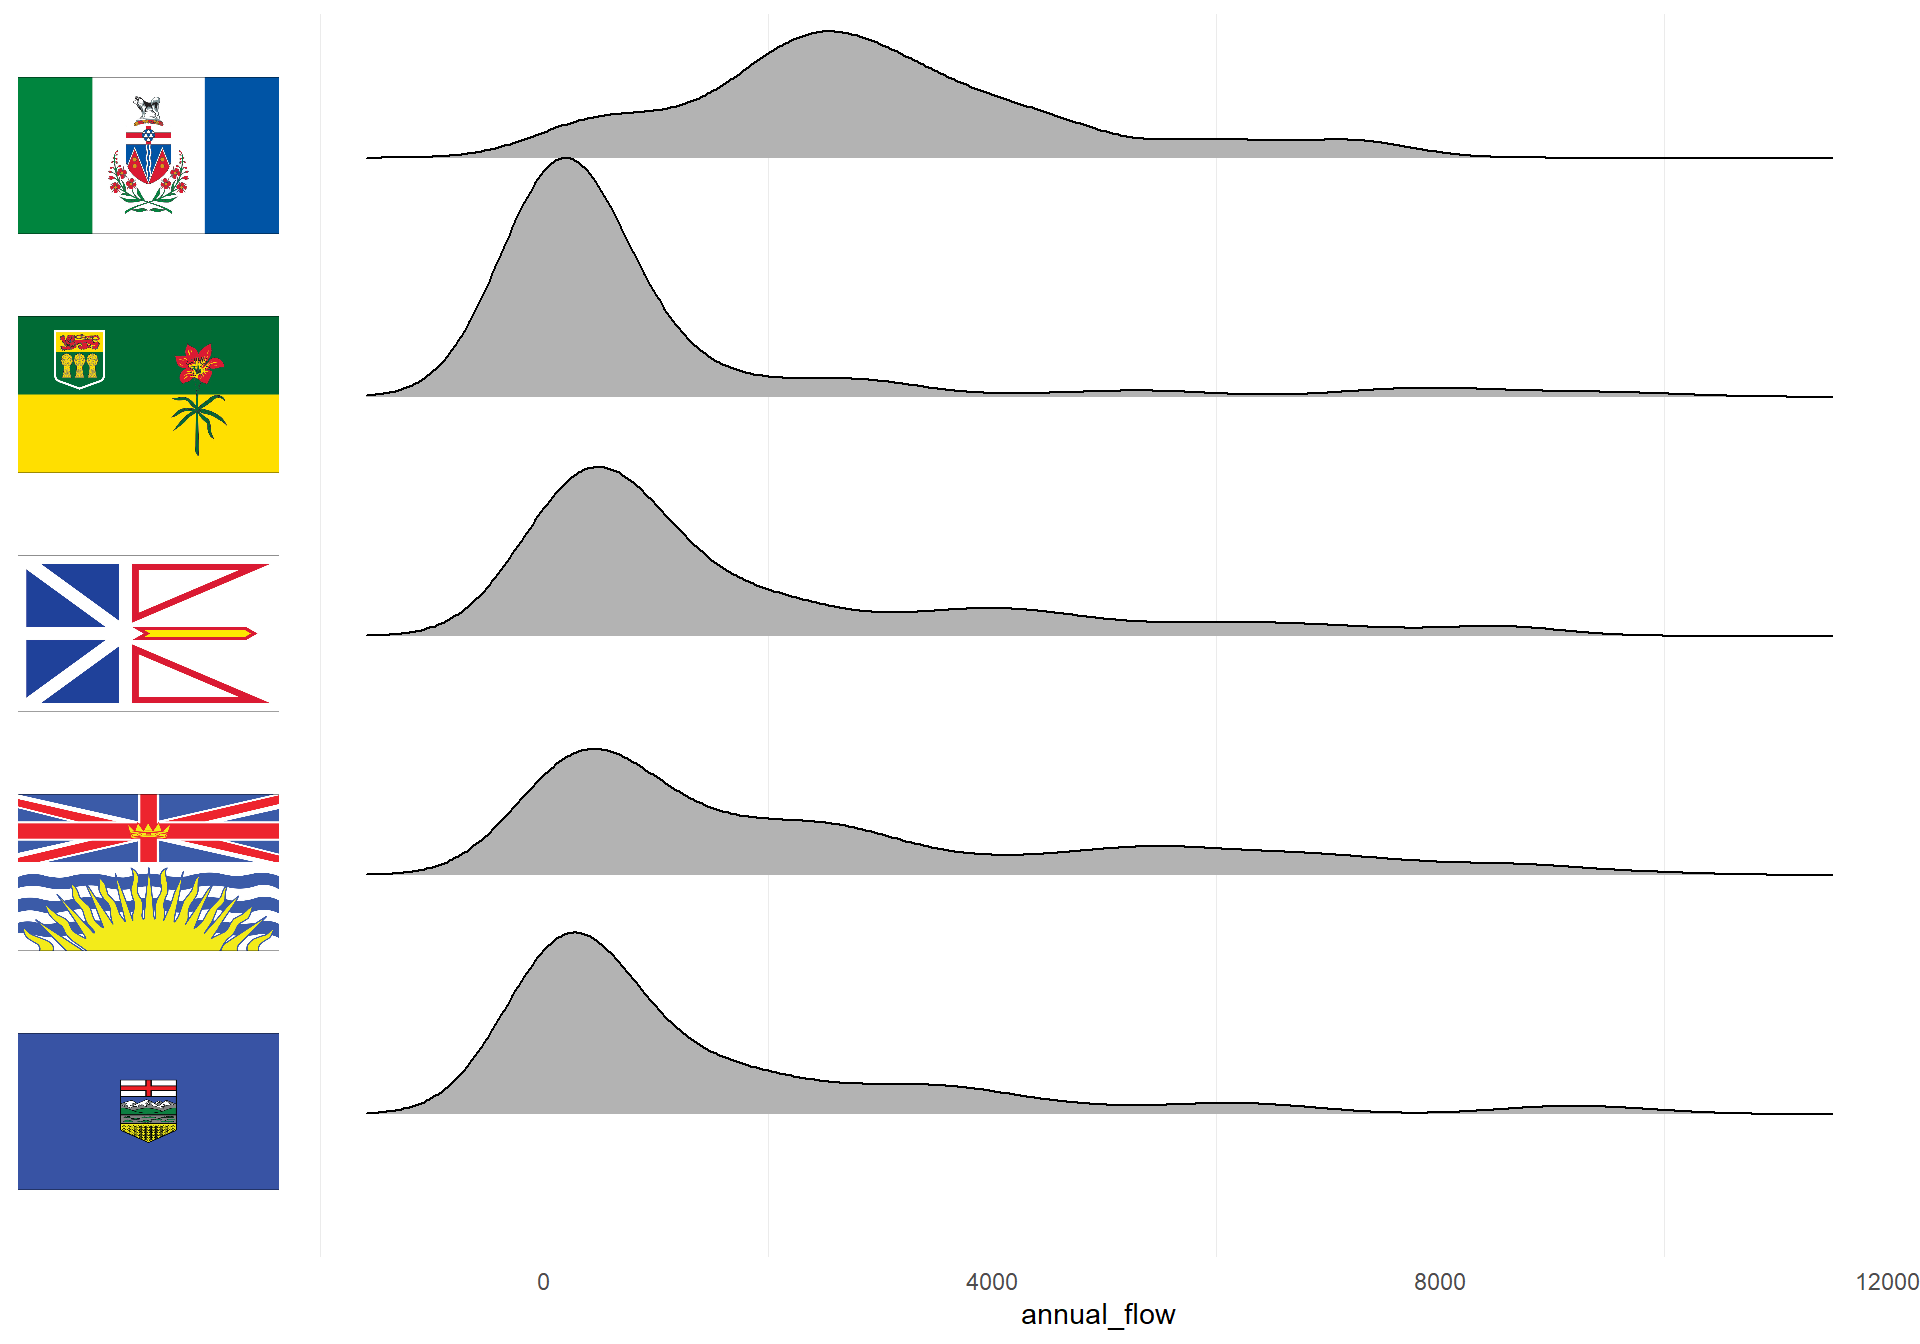
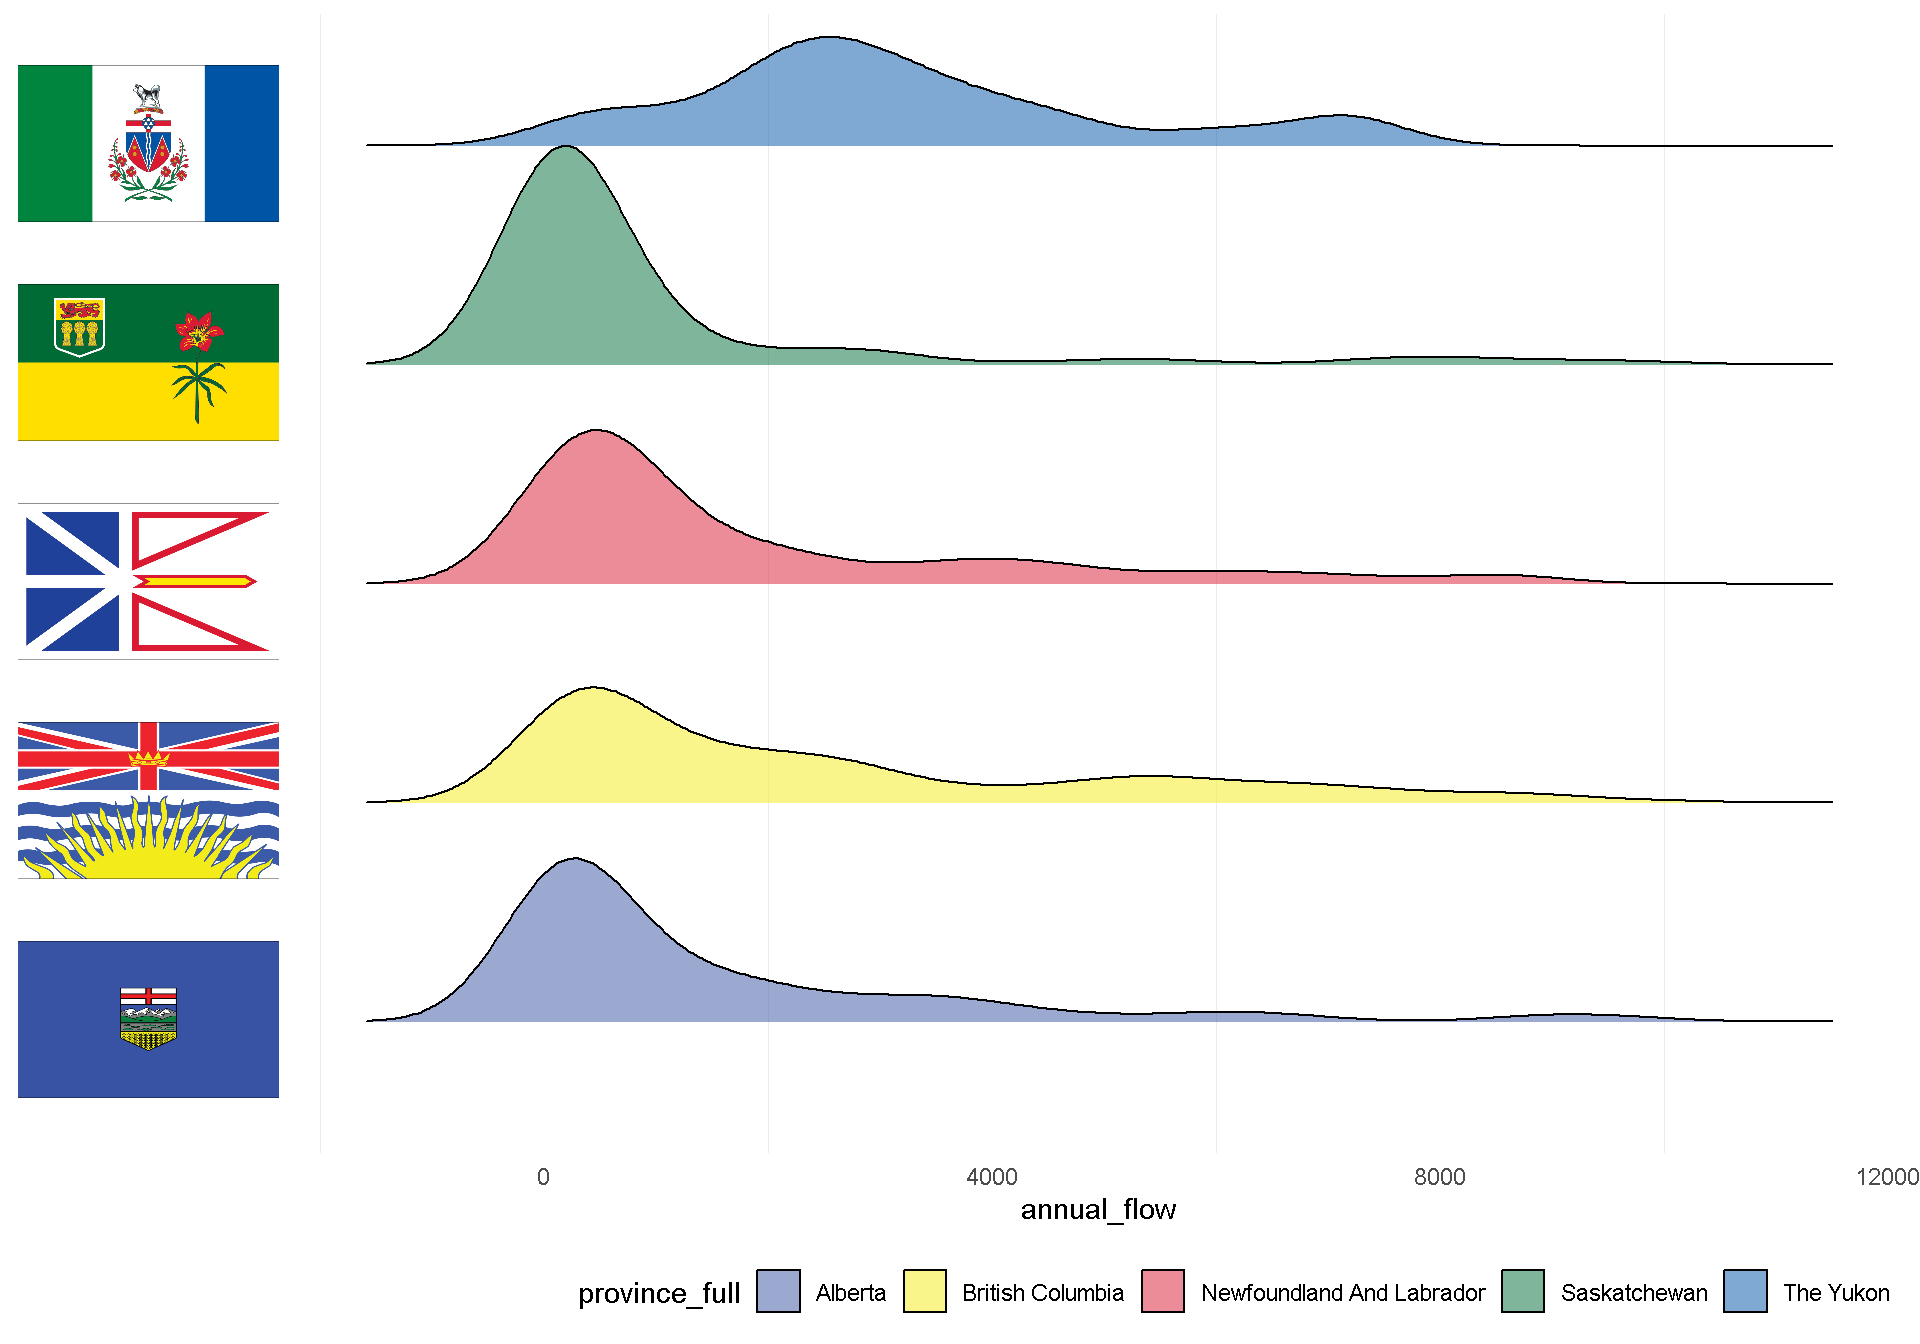
catch a couple errors and update arrow installation instructions

diff --git a/content/post/a-short-history-of-me-at-rstudio-conf-2020.html b/content/post/a-short-history-of-me-at-rstudio-conf-2020.html
@@ -1,7 +1,7 @@
 ---
 title: A short history of me at rstudio::conf 2020
 author: Sam Albers
-date: '2020-02-09'
+date: '2020-02-11'
 slug: a-short-history-of-me-at-rstudio-conf-2020
 categories:
   - R
@@ -20,9 +20,7 @@ type: post
 <p>In January, I was lucky enough to attend the 2020 edition of RStudio::conf. Perhaps predictably, the conference and workshops were exceptional and to see all the wonderful things that folks in the R community are capable of was quite inspiring. People are really quite clever. Attending the tidy dev day was such a nice epilogue to the conference because after spending so much time listening to people talk about <em>their</em> code, I was pretty keen to crack open R and have at it myself. Before I lose everything from the conference to memory leaks, I am going to try to catalogue a few things that I learned at the conference by trying to weave them together into a single workflow.</p>
 <div id="a-brief-detour-about-where-to-get-these-packages" class="section level2">
 <h2>A brief detour about where to get these packages</h2>
-<p>Several of the packages that I am using here are at development stages and aren’t yet on CRAN. I’m including the installation instructions here but eventually this process should be as easy as the typical <code>install.packages</code>. Here I am using the nightly build of the <code>arrow</code> package which can be installed like this:</p>
-<pre class="r"><code>install.packages(&#39;arrow&#39;, repos = &#39;https://dl.bintray.com/ursalabs/arrow-r&#39;)</code></pre>
-<p>And then for <code>ggtext</code>, which isn’t on CRAN, we install it (and the dev version of <code>ggplot2</code>) from GitHub:</p>
+<p>Several of the packages that I am using here are at development stages and aren’t yet on CRAN. I’m including the installation instructions here but eventually this process should be as easy as the typical <code>install.packages</code>. For <code>ggtext</code>, which isn’t on CRAN, we install it (and the dev version of <code>ggplot2</code>) from GitHub:</p>
 <pre class="r"><code>remotes::install_github(&#39;wilkelab/ggtext&#39;)</code></pre>
 <p>Other packages that I am using are loaded here:</p>
 <pre class="r"><code>library(fs)
@@ -40,26 +38,17 @@ library(glue)</code></pre>
 <h2>The <code>arrow</code> package</h2>
 <p>One of my main goals at the conference was to find out new ways of dealing with very big flat files. I work in an environment where big flat files are sort of our only option. Adding them to a proper database is not currently possible but I was hopeful that maybe the <a href="https://arrow.apache.org/">Apache Arrow project</a> might offer up some solutions. I was not disappointed. Neal Richardson with <a href="https://ursalabs.org/">UrsaLabs</a> gave a great <a href="https://enpiar.com/talks/rstudio-conf-2020/#1">presentation</a> on the status of the project with a specific focus on the R package <code>arrow</code>.</p>
 <p>Here I am mostly parroting what Neal did with his presentation just replacing taxi data with Canadian hydrometric data. Whether we are provisioned data that way or create it ourselves, consider data organized in a hierarchical folder structure. Here at the top level we have Canadian <code>province</code>:</p>
-<pre><code>## C:/_dev/GitHub_repos/samalbers.science/data/rivers-data
+<pre><code>## Z:/GitHub_Repos/samalbers.science/data/rivers-data
 ## +-- AB
 ## +-- BC
-## +-- MB
-## +-- NB
 ## +-- NL
-## +-- NS
-## +-- NT
-## +-- NU
-## +-- ON
-## +-- PE
-## +-- QC
 ## +-- SK
 ## \-- YT</code></pre>
 <p>within each <code>province</code> folder we have <code>year</code>:</p>
-<pre><code>## C:/_dev/GitHub_repos/samalbers.science/data/rivers-data/AB
-## +-- 2017
-## \-- 2018</code></pre>
+<pre><code>## Z:/GitHub_Repos/samalbers.science/data/rivers-data/AB
+## \-- 2017</code></pre>
 <p>within each <code>year</code> folder we have <code>month</code></p>
-<pre><code>## C:/_dev/GitHub_repos/samalbers.science/data/rivers-data/AB/2017
+<pre><code>## Z:/GitHub_Repos/samalbers.science/data/rivers-data/AB/2017
 ## +-- 01
 ## +-- 02
 ## +-- 03
@@ -73,7 +62,7 @@ library(glue)</code></pre>
 ## +-- 11
 ## \-- 12</code></pre>
 <p>and finally within that directory you actually have your data file:</p>
-<pre><code>## C:/_dev/GitHub_repos/samalbers.science/data/rivers-data/AB/2017/01
+<pre><code>## Z:/GitHub_Repos/samalbers.science/data/rivers-data/AB/2017/01
 ## \-- rivers.parquet</code></pre>
 <p>Normally in this situation my approach would be to do some sort of iterative process over each file (mind you still making use of <code>arrow</code> to read the parquet file):</p>
 <pre class="r"><code>df_rivs &lt;- list.files(here(&#39;data/rivers-data/&#39;), pattern = &#39;*.parquet&#39;, recursive = TRUE, full.names = TRUE) %&gt;% 
@@ -83,7 +72,7 @@ library(glue)</code></pre>
   filter(year(Date) == 2017) %&gt;% 
   filter(Parameter == &#39;Flow&#39;) %&gt;% 
   arrange(Date)</code></pre>
-<pre><code>## # A tibble: 456,448 x 5
+<pre><code>## # A tibble: 238,009 x 5
 ##    STATION_NUMBER Date       Parameter  Value Symbol
 ##    &lt;chr&gt;          &lt;date&gt;     &lt;chr&gt;      &lt;dbl&gt; &lt;chr&gt; 
 ##  1 05AA008        2017-01-01 Flow       1.75  B     
@@ -96,10 +85,10 @@ library(glue)</code></pre>
 ##  8 05AH005        2017-01-01 Flow      NA     &lt;NA&gt;  
 ##  9 05AH037        2017-01-01 Flow      NA     &lt;NA&gt;  
 ## 10 05AH044        2017-01-01 Flow      NA     &lt;NA&gt;  
-## # ... with 456,438 more rows</code></pre>
+## # ... with 237,999 more rows</code></pre>
 <p>What we learned in Neal’s presentation was the magic of the <code>open_dataset</code> function and specifically its ability to map hierarchical directory structure to virtual columns in your data. If we read just one parquet file, it is apparent that there aren’t any <code>province</code>, <code>year</code> or <code>month</code> columns:</p>
 <pre class="r"><code>read_parquet(here(&#39;data/rivers-data/AB/2017/01/rivers.parquet&#39;))</code></pre>
-<pre><code>## # A tibble: 2,263 x 5
+<pre><code>## # A tibble: 2,356 x 5
 ##    STATION_NUMBER Date       Parameter  Value Symbol
 ##    &lt;chr&gt;          &lt;date&gt;     &lt;chr&gt;      &lt;dbl&gt; &lt;chr&gt; 
 ##  1 05AA008        2017-01-01 Flow       1.75  B     
@@ -112,7 +101,7 @@ library(glue)</code></pre>
 ##  8 05AH005        2017-01-01 Flow      NA     &lt;NA&gt;  
 ##  9 05AH037        2017-01-01 Flow      NA     &lt;NA&gt;  
 ## 10 05AH044        2017-01-01 Flow      NA     &lt;NA&gt;  
-## # ... with 2,253 more rows</code></pre>
+## # ... with 2,346 more rows</code></pre>
 <p>Instead, if we assign partitions, using a vector based on the directory structure, <code>open_dataset</code> can use that information to efficiently subset a larger dataset.</p>
 <pre class="r"><code>rivs &lt;- open_dataset(here(&#39;data/rivers-data/&#39;), partitioning = c(&#39;province&#39;,&#39;year&#39;, &#39;month&#39;))
 rivs</code></pre>
@@ -156,7 +145,7 @@ rivs</code></pre>
 <pre class="r"><code>dl &lt;- file.path(tempdir(), &#39;flag.zip&#39;)
 download.file(&#39;https://www.ederflag.com/images/catalog_images/canadian-province-and-territory-images.zip&#39;,
               dest = dl)
-unzip(dl, exdir = here(&#39;data/flags&#39;))
+unzip(dl, exdir = here::here(&#39;data/flags&#39;))
 unlink(dl)</code></pre>
 </div>
 <div id="extract-province" class="section level3">
@@ -193,7 +182,7 @@ annual_flow %&gt;%
   geom_point() +
   scale_x_discrete(name = NULL, labels = img_tags) +
   theme(axis.text.x = element_markdown(color = &#39;black&#39;, size = 11))</code></pre>
-<p><img src="/post/a-short-history-of-me-at-rstudio-conf-2020_files/figure-html/unnamed-chunk-18-1.png" width="960" /></p>
+<p><img src="/post/a-short-history-of-me-at-rstudio-conf-2020_files/figure-html/unnamed-chunk-17-1.png" width="960" /></p>
 <p>So I think this is pretty cool! We have images in the axes. AFAIK, this was previously impossible. Unfortunately this isn’t a particularly informative nor a nice looking plot. The next step in the workflow is to change that.</p>
 </div>
 </div>
@@ -202,7 +191,7 @@ annual_flow %&gt;%
 <p>RStudio::conf had a thread of design thinking running through the workshops and conference. From the tidyverse’s near obsession with the design of their api to the inclusion of a live episode of Not So Standard deviation as a keynote, thinking about data science from a design perspective was a key theme that emerged for me. One example of this was <a href="https://twitter.com/W_R_Chase">Will Chase’s</a> wonderful talk on the <a href="https://www.williamrchase.com/slides/assets/player/KeynoteDHTMLPlayer.html#0">Glamour of Graphics</a>. Will presented some very thoughtful approaches to creating better visualizations. I am going to <del>butcher</del> apply some of those approaches to our plot above.</p>
 <div id="hydrologically-relevant" class="section level3">
 <h3>Hydrologically Relevant</h3>
-<p>First of our plot is rather uninformative from hydrological perspective. A reasonable goal for this plot would be to aid the user to evaluate the distribution of annual river flow by province. In the above plot, the extreme values are stretching the scale too far out so let’s limit our analysis to rivers that output less that 10,000 m<sup>3</sup>/s per year.</p>
+<p>First off, our plot is rather uninformative from hydrological perspective. A reasonable goal for this plot would be to aid the user to evaluate the distribution of annual river flow by province. In the above plot, the extreme values are stretching the scale too far out so let’s limit our analysis to rivers that output less that 10,000 m<sup>3</sup>/s per year.</p>
 <pre class="r"><code>annual_flow_sub &lt;- annual_flow %&gt;%
   filter(annual_flow &lt; 10000)</code></pre>
 <p>Also the basic point plot doesn’t give us a great way to look at the distribution. For that task, another of Claus’s packages, <code>ggridges</code> comes in handy. <code>ggridges</code> is great for visualizing distributions and also forces us to flip the axes creating a more natural information flow (at least for those of us that read left to right).</p>
@@ -213,7 +202,7 @@ annual_flow_sub %&gt;%
   geom_density_ridges() +
   scale_y_discrete(name = NULL, labels = img_tags) +
   theme(axis.text.y = element_markdown(color = &#39;black&#39;, size = 11))</code></pre>
-<p><img src="/post/a-short-history-of-me-at-rstudio-conf-2020_files/figure-html/unnamed-chunk-20-1.png" width="960" /></p>
+<p><img src="/post/a-short-history-of-me-at-rstudio-conf-2020_files/figure-html/unnamed-chunk-19-1.png" width="960" /></p>
 <p>A great line from Will’s presentation pertained to white space:</p>
 <blockquote>
 <p>White space is like garlic; take the amount you think you need, then triple it.</p>
@@ -225,7 +214,7 @@ annual_flow_sub %&gt;%
   scale_y_discrete(name = NULL, labels = img_tags) +
   theme_minimal() +
   theme(axis.text.y = element_markdown(color = &#39;black&#39;, size = 11))</code></pre>
-<p><img src="/post/a-short-history-of-me-at-rstudio-conf-2020_files/figure-html/unnamed-chunk-21-1.png" width="960" />
+<p><img src="/post/a-short-history-of-me-at-rstudio-conf-2020_files/figure-html/unnamed-chunk-20-1.png" width="960" />
 Ok looking a bit better. Another one of Will’s suggestion is to remove grid lines as much as possible. I basically agree and just keep the minor x values.</p>
 <pre class="r"><code>annual_flow_sub %&gt;%
   ggplot(aes(y = province_full, x = annual_flow)) +
@@ -235,7 +224,7 @@ Ok looking a bit better. Another one of Will’s suggestion is to remove grid li
   theme(axis.text.y = element_markdown(color = &#39;black&#39;, size = 11),
         panel.grid.major = element_blank(),
         panel.grid.minor.y = element_blank())</code></pre>
-<p><img src="/post/a-short-history-of-me-at-rstudio-conf-2020_files/figure-html/unnamed-chunk-22-1.png" width="960" />
+<p><img src="/post/a-short-history-of-me-at-rstudio-conf-2020_files/figure-html/unnamed-chunk-21-1.png" width="960" />
 ✔ Now we need some colour here. As Will stated colour is hard. My goal here is pretty modest. I just want to distinguish between provinces. To do that I am actually going to steal some colour from the flags and manually map those to fill in colour for the ridges. At the same time I am going to add some transparency to the ridges. I am going to deviate a little from Will’s advice here and keep the legend. I often get this way with plots and err on the side of caution. In this case I am thinking that folks won’t recognize the flags and therefore will use the legend. In general though I do like the approach of forcing legends to justify their existence - they need to earn their keep.</p>
 <pre class="r"><code>flag_cols &lt;- c(&#39;#3853a4&#39;,
                &#39;#f3ec18&#39;,
@@ -254,7 +243,7 @@ annual_flow_sub %&gt;%
         panel.grid.minor.y = element_blank(),
         legend.position = &#39;bottom&#39;,
         legend.justification=&#39;right&#39;)</code></pre>
-<p><img src="/post/a-short-history-of-me-at-rstudio-conf-2020_files/figure-html/unnamed-chunk-23-1.png" width="960" /></p>
+<p><img src="/post/a-short-history-of-me-at-rstudio-conf-2020_files/figure-html/unnamed-chunk-22-1.png" width="960" /></p>
 <p>Lastly this plot needs a title, which according to Will’s sage advice is also a great way to remove axes labels - just explain it in the title.</p>
 <pre class="r"><code>annual_flow_sub %&gt;%
   ggplot(aes(y = province_full, x = annual_flow, fill = province_full)) +
@@ -271,11 +260,11 @@ annual_flow_sub %&gt;%
         plot.title = element_markdown(size = 15), 
         legend.position = &#39;bottom&#39;,
         legend.justification=&#39;right&#39;)</code></pre>
-<p><img src="/post/a-short-history-of-me-at-rstudio-conf-2020_files/figure-html/unnamed-chunk-24-1.png" width="960" /></p>
-<p>From a visualization perspective this isn’t perfect or even great. Legends are still problematic, I don’t even know if the flags add anything and grid lines feel like an addiction. Still I think this does provide a decent overview of the types of rivers that are gauged in each province. The Yukon gauges bigger rivers while Saskatchewan gauges many smaller rivers. BC and Newfoundland gauges a wide range of rivers. Alberta gauges rivers that reflect both its mountain and prairies landscapes.</p>
+<p><img src="/post/a-short-history-of-me-at-rstudio-conf-2020_files/figure-html/unnamed-chunk-23-1.png" width="960" /></p>
+<p>From a visualization perspective this isn’t perfect or even great. Legends are still problematic, I don’t even know if the flags add anything and grid lines feel like an addiction. Still I think this does provide a decent overview of the types of rivers that are gauged in each province. Remembering that we previously subset all our river flow data to less than 10000, the Yukon gauges bigger rivers while Saskatchewan gauges many smaller rivers. BC and Newfoundland gauge a wide range of rivers types. Alberta gauges rivers that reflect both its mountain and prairies landscapes.</p>
 </div>
 </div>
 <div id="back-to-rstudio-conf" class="section level2">
 <h2>Back to RStudio conf</h2>
-<p>This has been a mini tour through some concept and packages I took in while attending RStudio::conf 2020. I can’t wait to spend more time with these packages as they mature and development. Every time I connect with the R community, I am grateful to be part of it. RStudio itself presents itself with class and respect all while creating a positive and inclusive space. I’m looking forward to future opportunities to connect with all you nerds!</p>
+<p>This has been a mini tour through some concept and packages I took in while attending RStudio::conf 2020. I can’t wait to spend more time with these packages as they mature and development. Every time I connect with the R community, I am grateful to be part of it. RStudio itself presents with class and respect all while creating a positive and inclusive space. I’m looking forward to future opportunities to connect with all you nerds!</p>
 </div>
